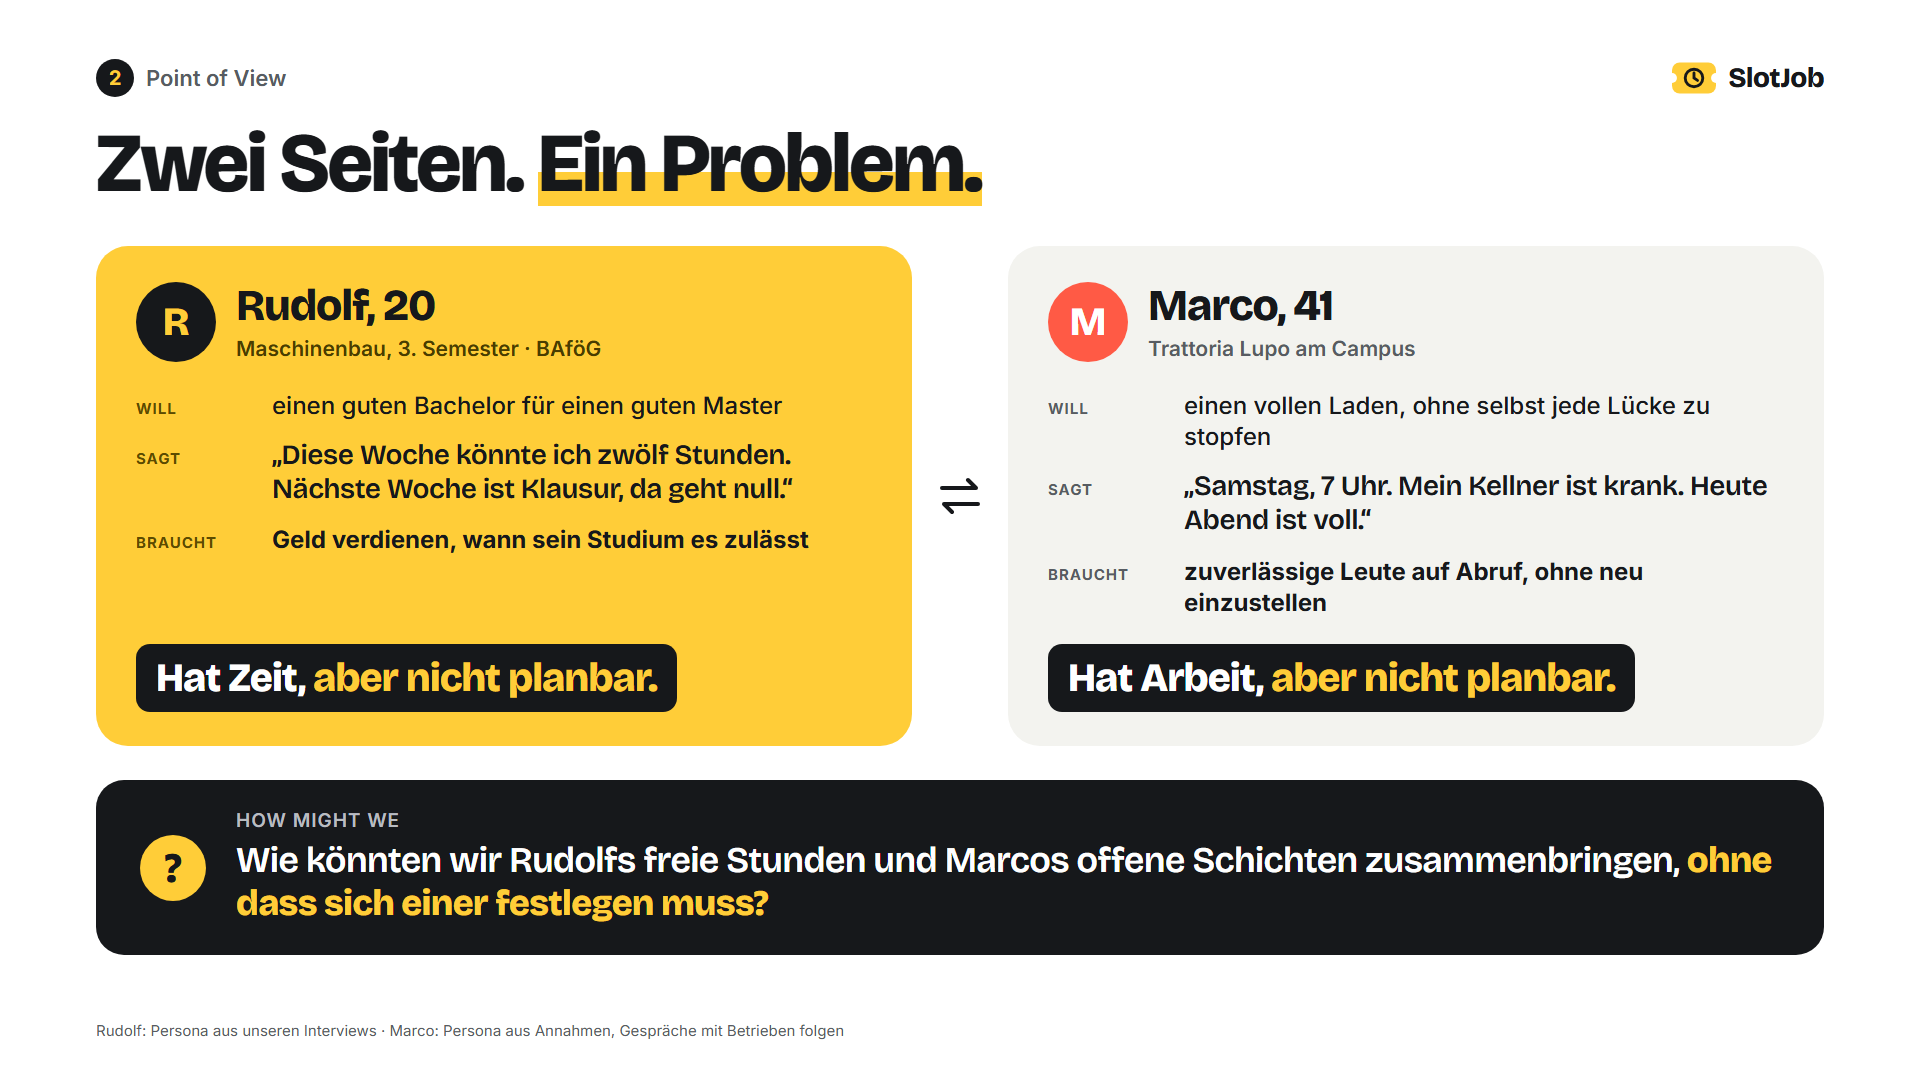
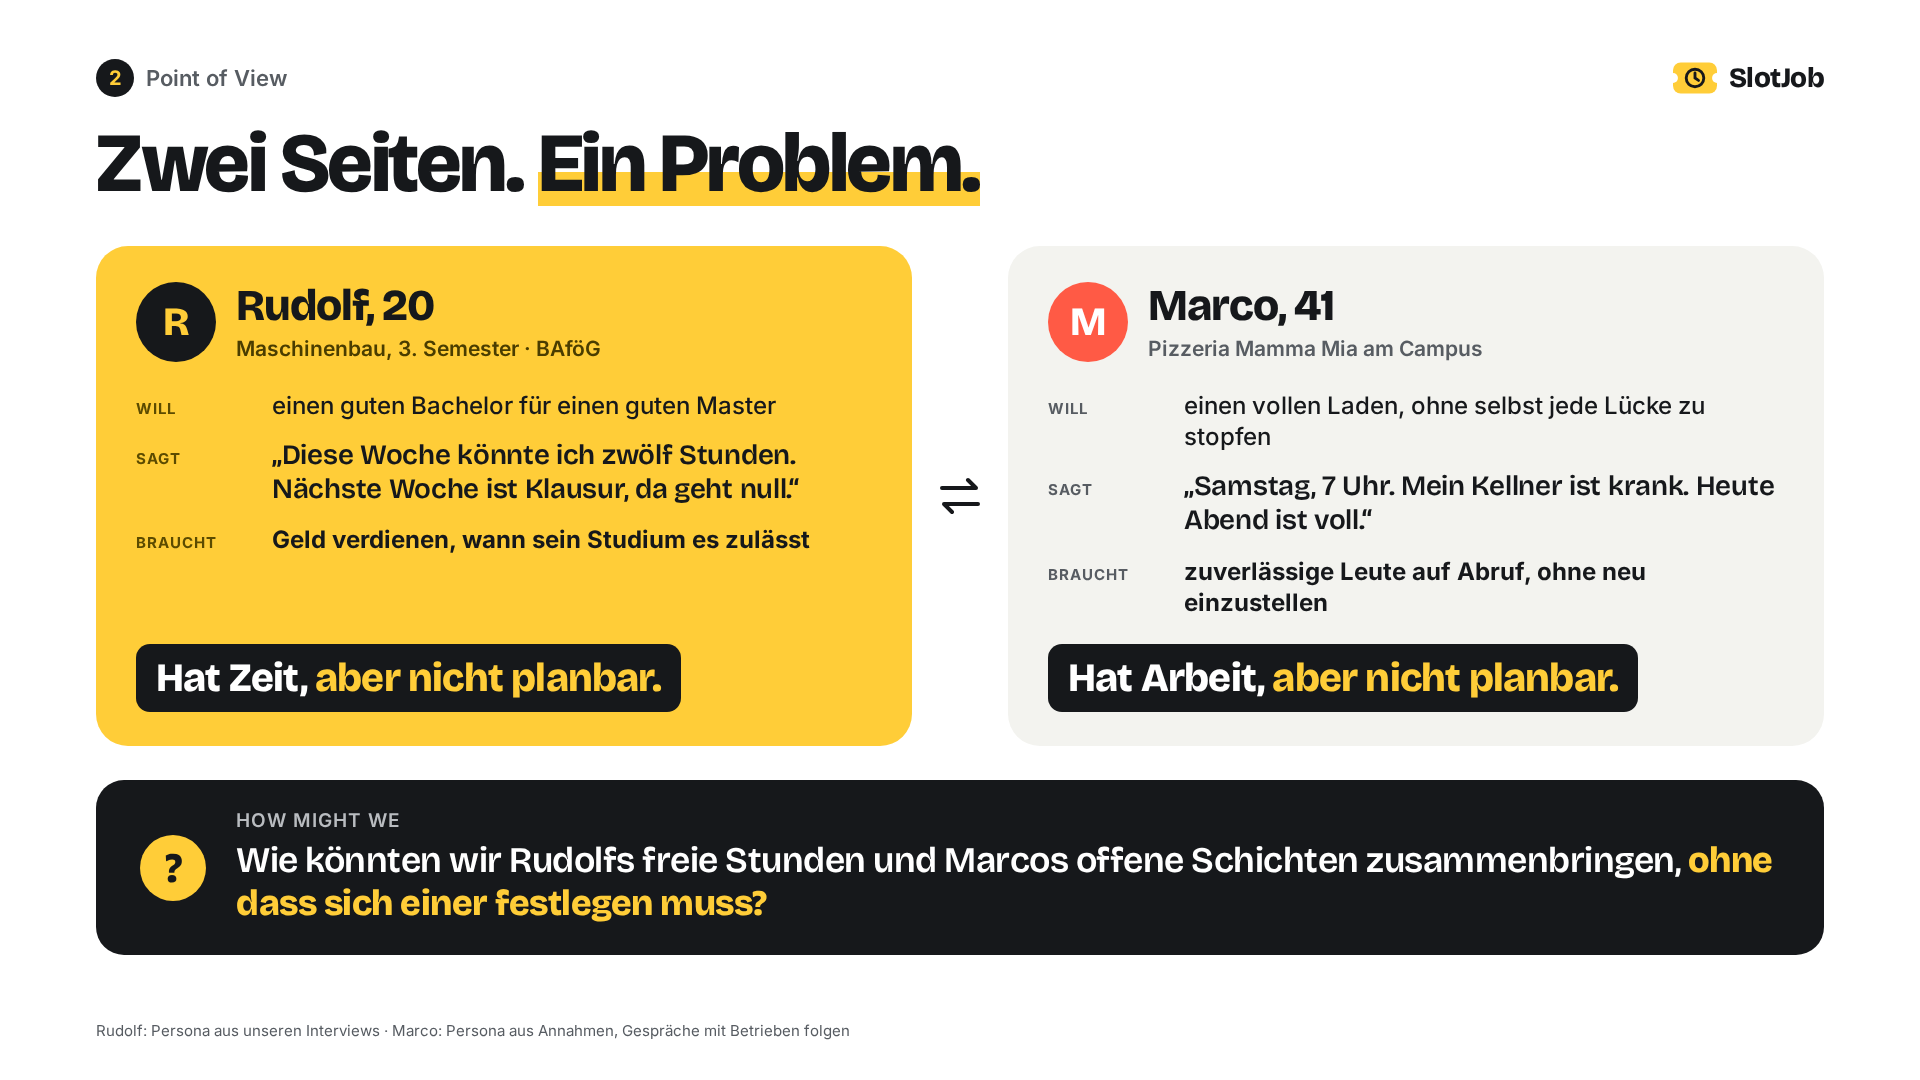
Slide 3 minimal in the team's slide style; slide 2 says Pizzeria Mamma Mia; speech in clean paragraphs
Claude-Session: https://claude.ai/code/session_01TtYjNNzjFNGfjoyzmP8vJg

diff --git a/pitch/folie-2-point-of-view.html b/pitch/folie-2-point-of-view.html
@@ -104,7 +104,7 @@
         <div class="avatar">M</div>
         <div>
           <div class="name">Marco, 41</div>
-          <div class="role">Trattoria Lupo am Campus</div>
+          <div class="role">Pizzeria Mamma Mia am Campus</div>
         </div>
       </div>
       <div class="rows">
